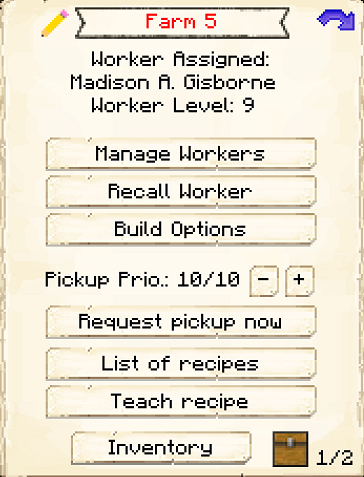
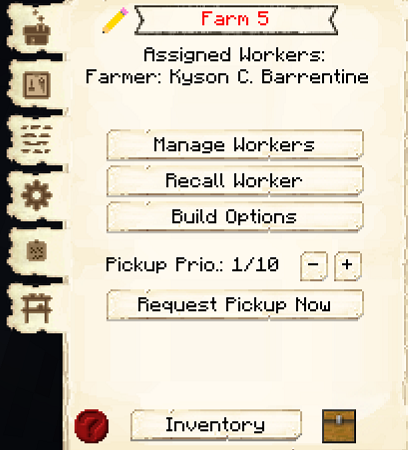
Farm updates

diff --git a/source/buildings/farm&field.md b/source/buildings/farm&field.md
@@ -57,7 +57,7 @@ You can click on the arrows to increase the size of the area the Farmer will far
 
 ## Farm GUI
 
-When accessing the Farm block by right-clicking on it, you will see a GUI with different options:
+When accessing the Farm block by right-clicking on it, you will see a GUI with different options.   You start on the main tab:
 
 <br>
 <div class="row">
@@ -73,28 +73,73 @@ When accessing the Farm block by right-clicking on it, you will see a GUI with d
     </ul>
   </div>
 </div>
-<br><br>
-This is page two of the Farm GUI. It shows the Fields that are available (recognizable by the crop in its GUI and its distance). You can assign them to this Farmer as well.
+
+<br>
+<div class="row">
+    <div class="col-sm-12 col-md">
+      <img src="../../assets/images/gui/farmgui2.png" class="img-fluid mx-auto" alt="Farm GUI 2">
+    </div>
+    <div class="col-sm-12 col-md">
+    <p>The second tab of the GUI is <strong>List of Recipes</strong>. Here you can see all the crafting recipes this hut knows.  The arrows allow you to move them up or down in priority.  You are also able to disable specific recipes.</p>
+    <ul>
+        <li><strong> Teach Recipe:</strong> When clicking teach recipe, it opens a crafting grid which allows you to teach this hut recipes (not the worker).</li>
+    </ul>
+    </div>
+</div>
+
+<br>
+<div class="row">
+    <div class="col-sm-12 col-md">
+      <img src="../../assets/images/gui/farmgui3.png" class="img-fluid mx-auto" alt="Farm GUI 3">
+    </div>
+    <div class="col-sm-12 col-md">
+    <p>The third tab of the GUI is <strong>Tasks</strong>.  This tab shows you any requests the hut is working on, and where it is going.</p>
+    </div>
+</div>
+  
+<br>
+<div class="row">
+    <div class="col-sm-12 col-md">
+      <img src="../../assets/images/gui/farmgui4.png" class="img-fluid mx-auto" alt="Farm GUI 4">
+    </div>
+    <div class="col-sm-12 col-md">
+    <p>The fourth tab of the GUI is <strong>Settings</strong>.</p>
+    <ul>
+      <li><strong>Request Fertilizer:</strong>  On by default.  This lets you choose whether the Farmer will request fertilizer. 
+      <li><strong>Recipe Mode:</strong>  This is unlocked by researching Warehouse Master in the University.  This allows you to change the order the hut chooses when it knows more than one recipe for an item. 
+        <ul>
+          <li><strong>Priority:</strong>  This is the default setting.  The hut will try to use the recipe that is higher up in their recipe list first.</li>
+          <li><strong>Warehouse Stock:</strong> The hut will look in the warehouse first to see what resource you have more of before deciding what recipe it will use.</li>
+        </ul>
+     </li>
+    </ul>
+    </div>
+</div>
+
+<br>
+<div class="row">
+    <div class="col-sm-12 col-md">
+      <img src="../../assets/images/gui/farmgui5.png" class="img-fluid mx-auto" alt="Farm GUI 5">
+    </div>
+    <div class="col-sm-12 col-md">
+      <p>The fifth tab of the GUI is <strong>Fields</strong>.</p>
+      <ul>
+        <li><b>Assign Fields to Farmer:</b> Automatic by default. Here you can define if you prefer to manually assign the Fields for this Farmer.</li>
+        <li><b>Fields:</b>This is the list of recognized fields (recognizable by the crop in its GUI and its distance). If the field shows an X, that means it is already assigned to a Farmer and will list the name of the Farmer who takes care of that field. If the X is red and the button is not grayed out, that field belongs to the current Farmer and you can unassign it. If the field has a green check, then that field can be assigned to the Farmer. If the button is grayed out with a check, that means that no one is assigned to that field but the Farmer can not accept any more fields. </li>
+    </ul>
+    </div>
+</div>
 
 <br>
 <div class="row">
   <div class="col-sm-12 col-md">
-    <img src="../../assets/images/gui/farmgui2.png" class="img-fluid mx-auto" alt="Farm GUI 2">
+      <img src="../../assets/images/gui/farmgui6.png" class="img-fluid mx-auto" alt="Farm GUI 6">
   </div>
   <div class="col-sm-12 col-md">
     <br>
+    <p>The sixth tab of the GUI is <strong>Minimum Stock</strong>.  It has one button:</p>
     <ul>
-      <li><b>Automatic/Manual:</b> Automatic by default. Here you can define if you prefer to manually assign the Fields for this Farmer.</li>
-      <li><b>Field:</b> This is the list of recognized fields. If the field shows an X, that means it is already assigned to a Farmer and will list the name of the Farmer who takes care of that field. If the X is red and the button is not grayed out, that field belongs to the current Farmer and you can unassign it. If the field has a green check, then that field can be assigned to the Farmer. If the button is grayed out with a check, that means that no one is assigned to that field but the Farmer can not accept any more fields.</li>
+         <li><strong> Add: </strong> Use this button to tell the Farm to keep a minimum stock on hand. Set items will be displayed above the button.</li>
     </ul>
-  </div>
-</div>  
-  <br><br>
-  This is page three of the Farm GUI. It lets you choose whether the Farmer will request fertilizer ([compost](../../source/items/compost) or bone meal).
-
-<br>
-<div class="row">
-  <div class="col-sm-12 col-md">
-    <img src="../../assets/images/gui/farmgui3.png" class="img-fluid mx-auto" alt="Farm GUI 3">
   </div>
 </div>

diff --git a/source/buildings/crusher.md b/source/buildings/crusher.md
@@ -101,11 +101,13 @@ When accessing the Crusher's Hut block by right-clicking on it, you will see a G
     </div>
     <div class="col-sm-12 col-md">
     <p>The fourth tab of the GUI is <strong>Settings</strong>.</p>
+      <ul>
       <li><strong>Recipe Mode:</strong>  This is unlocked by researching Warehouse Master in the University.  This allows you to change the order the hut chooses when it knows more than one recipe for an item. 
         <ul>
           <li><strong>Priority:</strong>  This is the default setting.  The hut will try to use the recipe that is higher up in their recipe list first.</li>
           <li><strong>Warehouse Stock:</strong> The hut will look in the warehouse first to see what resource you have more of before deciding what recipe it will use.</li>
         </ul>
-     </li>
+      </li>
+      </ul>
     </div>
 </div>

diff --git a/source/buildings/dyer.md b/source/buildings/dyer.md
@@ -113,11 +113,13 @@ When accessing the Dyer's Hut block by right-clicking on it, you will see a GUI 
     </div>
     <div class="col-sm-12 col-md">
     <p>The sixth tab of the GUI is <strong>Settings</strong>.</p>
+      <ul>
       <li><strong>Recipe Mode:</strong>  This is unlocked by researching Warehouse Master in the University.  This allows you to change the order the hut chooses when it knows more than one recipe for an item. 
         <ul>
           <li><strong>Priority:</strong>  This is the default setting.  The hut will try to use the recipe that is higher up in their recipe list first.</li>
           <li><strong>Warehouse Stock:</strong> The hut will look in the warehouse first to see what resource you have more of before deciding what recipe it will use.</li>
         </ul>
      </li>
+     </ul>
     </div>
 </div>
